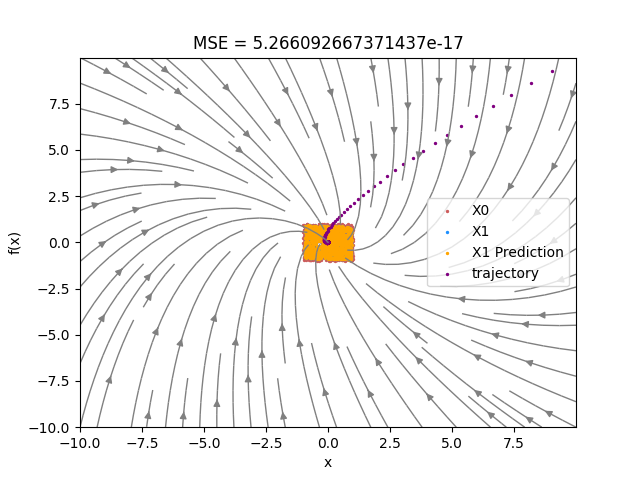
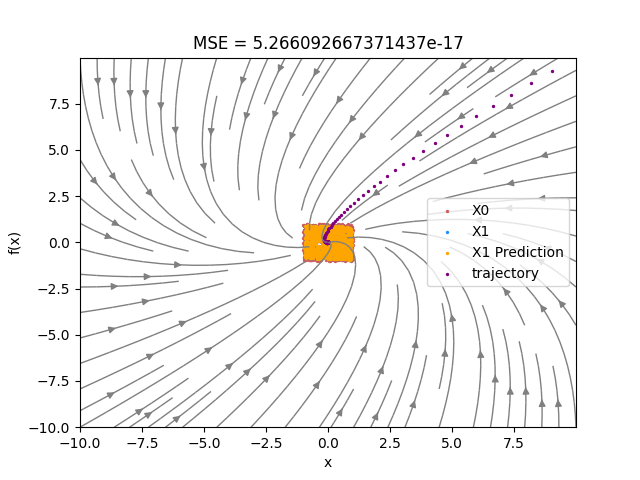
fix mse phaseportrait

diff --git a/task2/task2.py b/task2/task2.py
@@ -7,13 +7,20 @@ from Util import *
 
 
 def part1(X_0, X_1):
+    """
+    V = X A.T
+
+    :param X_0: (N, n), (1000, 2) 1000 data points x0
+    :param X_1:  (N, n), (1000, 2) 1000 data points x1 generated from x0
+    :return: Transpose of the approximated matrix A
+    """
     # estimate the linear vector field that was used to generate the points x1 from the points x
     # Use the finite-difference formula from section (1.3) to estimate the vectors v(k) at all points x(k)
     # then approximate the matrix A ∈ R2×2 with a supervised learning problem
     V = (X_1 - X_0) / 0.1
 
-    A = linear_approximation(X_0, V)
-    NU = np.matmul(X_0, A)
+    AT = linear_approximation(X_0, V) # A= [[-0.49, 0.23],[-0.46, -0.96]]
+    NU = np.matmul(X_0, AT)
 
     fig, ax = plt.subplots(1, 1)
     ax.scatter(X_0[:, 0], X_0[:, 1], color='indianred', s=2, label="X0")
@@ -25,12 +32,14 @@ def part1(X_0, X_1):
     plt.savefig('plots/task_2_part_1.png')
     plt.show()
 
-    return A
+    return AT
 
 
-def part2(X_0, X_1, A):
-    NU = np.matmul(X_0, A)
-    X_1_prediction = NU * 0.1 + X_0
+def part2(X_0, X_1, AT):
+    # v(x) = Ax
+    NU = np.matmul(X_0, AT)  # vector field
+    dt = 0.1
+    X_1_prediction = NU * dt + X_0  # from finite-difference formula
 
     mean_squared_error = mse(X_1, X_1_prediction)
 
@@ -50,7 +59,7 @@ def part2(X_0, X_1, A):
 
 def part3(A):
     dt = 0.1
-    T = 100
+    T = 1000
     x0 = np.array([10, 10])
 
     # Find trajectory
@@ -62,10 +71,11 @@ def part3(A):
         x0 = x1
 
     # Calculate phase portrait
+    # v(x) = Ax
     x = np.arange(-10, 10, 0.01)
-    x1, x2 = np.meshgrid(x, x)
-    y1 = A[0][0] * x1 + A[1][0] * x2
-    y2 = A[0][1] * x1 + A[1][1] * x2
+    x1, x2 = np.meshgrid(x, x)  # x1,x2 : 2000x2000
+    y1 = A[0][0] * x1 + A[0][1] * x2
+    y2 = A[1][0] * x1 + A[1][1] * x2
 
     fig = plt.figure()
     ax = fig.add_subplot()

diff --git a/task1/task1.py b/task1/task1.py
@@ -92,15 +92,24 @@ def part_1():
     linear_cal_time = time.time() - linear_start_time
     plot_linear_approximation(x_linear, fx_linear, fx_approximated_linear)
 
-    L = 10
+    L = 100
     # Calculating epsilon as in Diffusion Map algorithm
     nonlinear_start_time = time.time()
     D = distance_matrix(x_linear)
     epsilon = np.sqrt(np.max(D)) * 0.05
-    C, phis, xl = nonlinear_approximation(x_linear_new, fx_linear[:, np.newaxis], epsilon, L, [])
-    fx_approximated_nonlinear = np.matmul(phis, C)
+
+    CT, phis, xl = nonlinear_approximation(x_linear_new, fx_linear[:, np.newaxis], epsilon, L, [])
+    fx_approximated_nonlinear = np.matmul(phis, CT)
     nonlinear_cal_time = time.time() - nonlinear_start_time
     plot_nonlinear_approximation(x_linear, fx_linear, fx_approximated_nonlinear, L, epsilon)
+
+    #"""
+    #TEST for vector notation
+    CT, phis, xl = nonlinear_approximation(x_linear, fx_linear, epsilon, L, [])
+    fx_approximated_nonlinear = np.matmul(phis, CT)
+    nonlinear_cal_time = time.time() - nonlinear_start_time
+    plot_nonlinear_approximation(x_linear, fx_linear, fx_approximated_nonlinear, L, epsilon)
+    #"""
 
     # Why is it not a good idea to use radial basis functions for dataset (A)?
     # 1. Computational cost

diff --git a/Util.py b/Util.py
@@ -3,6 +3,7 @@ import matplotlib.pyplot as plt
 import time
 import sys
 from scipy.linalg import lstsq
+from sklearn.metrics import mean_squared_error
 
 
 def read_file(file_path):
@@ -31,7 +32,11 @@ def mse(y_truth, y_pred):
     :param y_pred: Approximation of the data
     :return: minimum squared root error between true data and approximation
     """
-    return ((y_truth - y_pred) ** 2).mean()
+
+    #d1 = (np.linalg.norm(y_truth - y_pred) ** 2) / len(y_pred)  # 1.0532185334742879e-16
+    #d2 = mean_squared_error(y_truth, y_pred)  # 5.266092667371443e-17
+    x = ((y_truth - y_pred) ** 2).mean()  # 5.266092667371437e-17
+    return x
 
 
 def distance_matrix(x):
